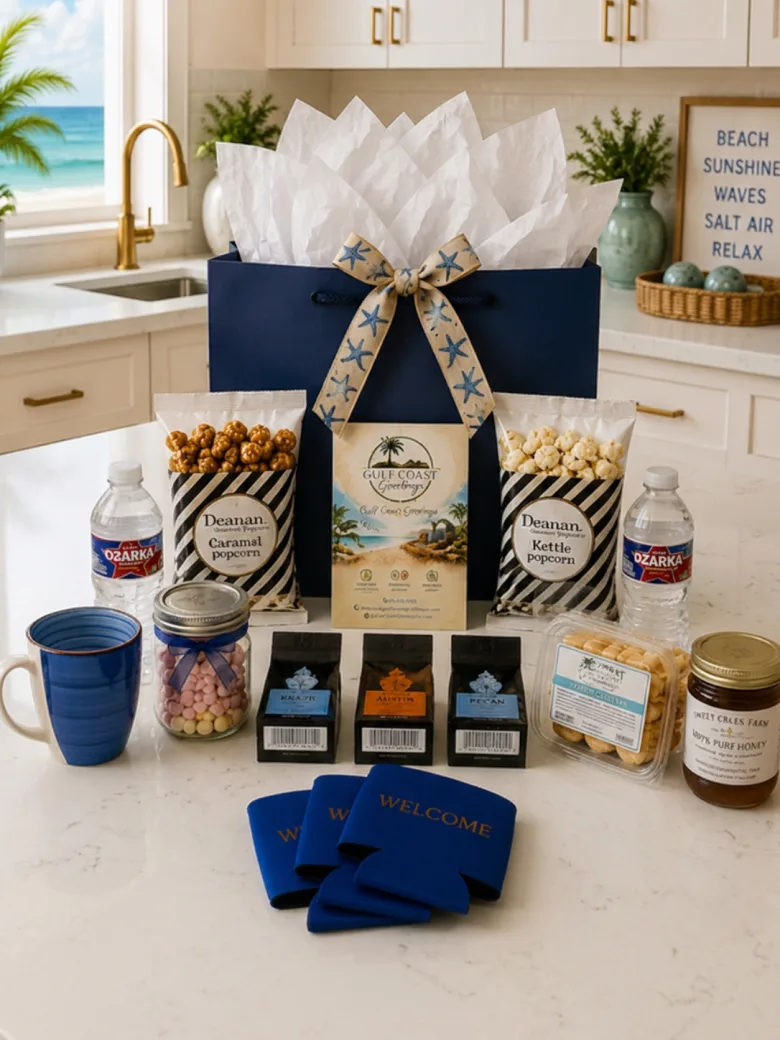
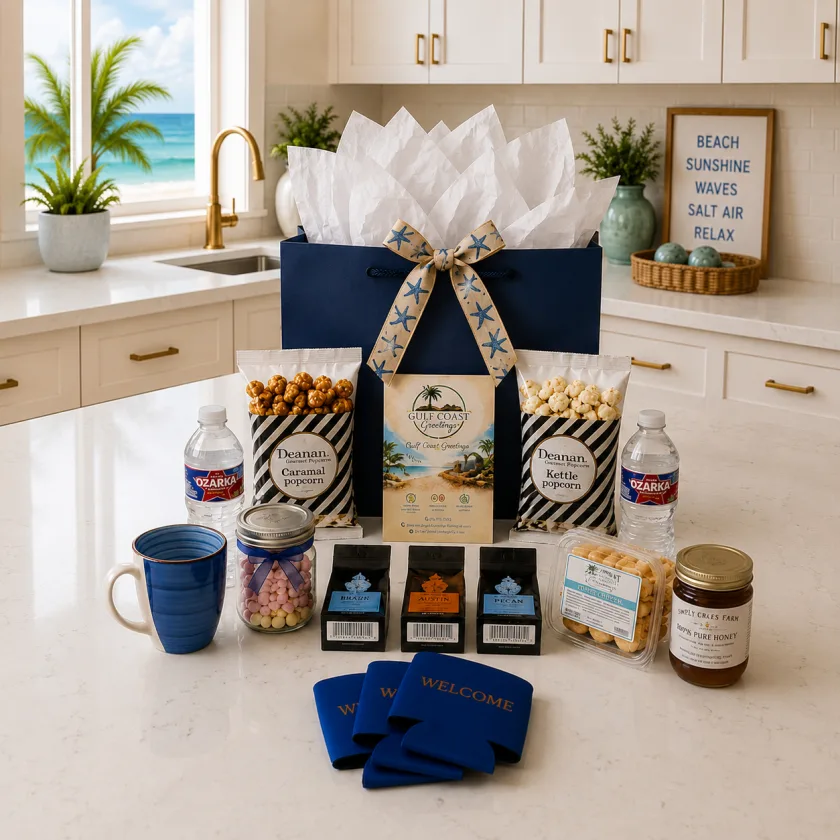
Gallery: square large-with-items photo, edge-to-edge like other tiles

diff --git a/index.html b/index.html
@@ -532,7 +532,7 @@
     <div class="gallery">
       <figure class="reveal photo"><img src="assets/bag-lifestyle.webp" alt="White welcome bag with navy tissue beside Texas coffee, popcorn, crackers, taffy and koozies" loading="lazy" /><figcaption>Small<span>Pre-made &amp; stocked with Texas goodies</span></figcaption></figure>
       <figure class="reveal photo"><img src="assets/bag-spread.webp" alt="Full spread of Gulf Coast Greetings welcome-bag contents — coffee, popcorn, taffy, water and koozies" loading="lazy" /><figcaption>Medium<span>Coffee, popcorn, taffy, koozies &amp; more</span></figcaption></figure>
-      <figure class="reveal"><img src="assets/bag-navy-spread.webp" alt="Navy laminate welcome bag with a full spread of Texas coffee, popcorn, jam, mug and koozies" loading="lazy" /><figcaption>Our Large Navy Bag<span>Loaded with Texas coffee, popcorn, jam &amp; more</span></figcaption></figure>
+      <figure class="reveal photo"><img src="assets/bag-navy-spread.webp" alt="Navy laminate welcome bag with a full spread of Texas coffee, popcorn, jam, mug and koozies" loading="lazy" /><figcaption>Our Large Navy Bag<span>Loaded with Texas coffee, popcorn, jam &amp; more</span></figcaption></figure>
       <figure class="reveal"><img src="assets/tote-navy.webp" alt="Navy striped canvas beach tote with Gulf Coast Greetings badge" /><figcaption>The Realtor Collection<span>Totes &amp; coastal baskets filled with local finds</span></figcaption></figure>
     </div>
   </div>
